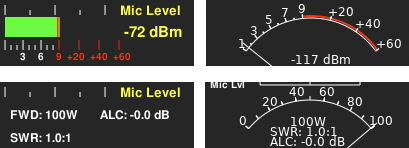
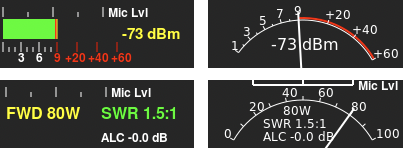
MacOS: activated bold fonts in the VFO display, such that the        look-and-feel is the same as for the RaspPi

diff --git a/src/meter.c b/src/meter.c
@@ -451,9 +451,7 @@ void meter_update(RECEIVER *rx, int meter_type, double value, double alc, double
       cairo_set_source_rgba(cr, COLOUR_OK);
       cairo_rectangle(cr, offset, 0.0, peak, 5.0);
       cairo_fill(cr);
-      cairo_select_font_face(cr, DISPLAY_FONT,
-                             CAIRO_FONT_SLANT_NORMAL,
-                             CAIRO_FONT_WEIGHT_BOLD);
+      cairo_select_font_face(cr, DISPLAY_FONT_BOLD, CAIRO_FONT_SLANT_NORMAL, CAIRO_FONT_WEIGHT_BOLD);
       cairo_set_font_size(cr, DISPLAY_FONT_SIZE2);
       cairo_set_source_rgba(cr, COLOUR_METER);
       cairo_move_to(cr, offset+105.0, 10.0);
@@ -490,9 +488,7 @@ void meter_update(RECEIVER *rx, int meter_type, double value, double alc, double
     // Digital meter, both RX and TX:
     // Mic level display
     //
-    cairo_select_font_face(cr, DISPLAY_FONT,
-                           CAIRO_FONT_SLANT_NORMAL,
-                           CAIRO_FONT_WEIGHT_BOLD);
+    cairo_select_font_face(cr, DISPLAY_FONT_BOLD, CAIRO_FONT_SLANT_NORMAL, CAIRO_FONT_WEIGHT_BOLD);
     cairo_set_line_width(cr, PAN_LINE_THICK);
 
     if (can_transmit) {
@@ -597,7 +593,7 @@ void meter_update(RECEIVER *rx, int meter_type, double value, double alc, double
         if (l > 114.0) { l = 114.0; }
 
         // use colours from the "gradient" panadapter display,
-        // but use no gradient: S0-S9 first colour, <S9 last colour
+        // but use no gradient: S0-S9 first colour, beyond S9 last colour
         cairo_pattern_t *pat = cairo_pattern_create_linear(0.0, 0.0, 114.0, 0.0);
         cairo_pattern_add_color_stop_rgba(pat, 0.00, COLOUR_GRAD1);
         cairo_pattern_add_color_stop_rgba(pat, 0.50, COLOUR_GRAD1);
@@ -617,24 +613,25 @@ void meter_update(RECEIVER *rx, int meter_type, double value, double alc, double
         text_location = 124;
       }
 
+      //
+      // Compute largest size for the digital S-meter reading such that
+      // it fits, both horizontally and vertically
+      //
+
       size = (METER_WIDTH - text_location) / 5;
 
       if (size > METER_HEIGHT / 3) { size = METER_HEIGHT / 3; }
 
-      if (size >= 12) {
-        cairo_set_source_rgba(cr, COLOUR_ATTN);
-        cairo_set_font_size(cr, size);
-        snprintf(sf, 32, "%d dBm", (int)(max_rxlvl - 0.5));  // assume max_rxlvl < 0 in rounding
-        cairo_move_to(cr, text_location, Y2);
-        cairo_show_text(cr, sf);
-      }
+      cairo_set_source_rgba(cr, COLOUR_ATTN);
+      cairo_set_font_size(cr, size);
+      snprintf(sf, 32, "%d dBm", (int)(max_rxlvl - 0.5));  // assume max_rxlvl < 0 in rounding
+      cairo_move_to(cr, text_location, Y2);
+      cairo_show_text(cr, sf);
 
       break;
 
     case POWER:
-      cairo_select_font_face(cr, DISPLAY_FONT,
-                             CAIRO_FONT_SLANT_NORMAL,
-                             CAIRO_FONT_WEIGHT_BOLD);
+      cairo_select_font_face(cr, DISPLAY_FONT_BOLD, CAIRO_FONT_SLANT_NORMAL, CAIRO_FONT_WEIGHT_BOLD);
       cairo_set_font_size(cr, DISPLAY_FONT_SIZE3);
 
       if (protocol == ORIGINAL_PROTOCOL || protocol == NEW_PROTOCOL) {
@@ -671,9 +668,7 @@ void meter_update(RECEIVER *rx, int meter_type, double value, double alc, double
         cairo_move_to(cr, METER_WIDTH/2, Y2);
         cairo_show_text(cr, sf);
 
-        cairo_select_font_face(cr, DISPLAY_FONT,
-                               CAIRO_FONT_SLANT_NORMAL,
-                               CAIRO_FONT_WEIGHT_BOLD);
+        cairo_select_font_face(cr, DISPLAY_FONT_BOLD, CAIRO_FONT_SLANT_NORMAL, CAIRO_FONT_WEIGHT_BOLD);
         cairo_set_font_size(cr, DISPLAY_FONT_SIZE2);
         cairo_set_source_rgba(cr, COLOUR_METER);  // revert to white color
         snprintf(sf, 32, "ALC %2.1f dB", max_alc);

diff --git a/src/appearance.h b/src/appearance.h
@@ -35,12 +35,29 @@
 
 //
 // Fonts and sizes for VFO, meter, panadapter etc.
+// NOTE MacOS versus RaspPi:
+// - on RaspPi, there is the font "FreeSans" which can be requested with a normal
+//   and a bold font weight.
+// - on MacOS, there is "FreeSans" but here *only* a normal weight is available,
+//   and there is "FreeSansBold" which *only* has a bold weight.
+// - therefore we define DISPLAY_FONT_NORMAL and DISPLAY_FONT_BOLD, which shall then
+//   exclusively be combined with a normal and bold font weight, and which can be
+//   be the same if both weights are available.
 //
-#define DISPLAY_FONT "FreeSans"                     // Default: FreeSans
-#define DISPLAY_FONT_SIZE1 10                       // Default: 10, used for small ticks in meter
-#define DISPLAY_FONT_SIZE2 12                       // Default: 12, used for SWR, FWD in Tx meter, and panadapter labels
-#define DISPLAY_FONT_SIZE3 16                       // Default: 16, used for warning/info in panadapters
-#define DISPLAY_FONT_SIZE4 20                       // Default: 22, only used for server IP addr in client mode
+// Note both the digital and analog RX meter "dBm" reading is printed in a font size
+// that is calculated based on available space.
+// 
+//
+#define DISPLAY_FONT_NORMAL     "FreeSans"
+#ifdef __APPLE__
+#define DISPLAY_FONT_BOLD       "FreeSansBold"
+#else
+#define DISPLAY_FONT_BOLD       "FreeSans"
+#endif
+#define DISPLAY_FONT_SIZE1 10                       // this is too small for elder hams
+#define DISPLAY_FONT_SIZE2 12                       // used for SWR, FWD in Tx meter, S-meter ticks, and panadapter labels
+#define DISPLAY_FONT_SIZE3 16                       // used for warning/info in panadapters
+#define DISPLAY_FONT_SIZE4 20                       // only used for server IP addr in client mode
 
 //
 // Colours. They are given as a 4-tuple (RGB and opacity).

diff --git a/src/rx_panadapter.c b/src/rx_panadapter.c
@@ -200,7 +200,7 @@ void rx_panadapter_update(RECEIVER *rx) {
 
   double dbm_per_line = (double)myheight / ((double)rx->panadapter_high - (double)rx->panadapter_low);
   cairo_set_line_width(cr, PAN_LINE_THIN);
-  cairo_select_font_face(cr, DISPLAY_FONT, CAIRO_FONT_SLANT_NORMAL, CAIRO_FONT_WEIGHT_BOLD);
+  cairo_select_font_face(cr, DISPLAY_FONT_BOLD, CAIRO_FONT_SLANT_NORMAL, CAIRO_FONT_WEIGHT_BOLD);
   cairo_set_font_size(cr, DISPLAY_FONT_SIZE2);
   char v[32];
 
@@ -244,9 +244,7 @@ void rx_panadapter_update(RECEIVER *rx) {
   //
   int marker_distance = (rx->pixels * divisor) / rx->sample_rate;
   f = ((min_display / divisor) * divisor) + divisor;
-  cairo_select_font_face(cr, DISPLAY_FONT,
-                         CAIRO_FONT_SLANT_NORMAL,
-                         CAIRO_FONT_WEIGHT_BOLD);
+  cairo_select_font_face(cr, DISPLAY_FONT_BOLD, CAIRO_FONT_SLANT_NORMAL, CAIRO_FONT_WEIGHT_BOLD);
   //
   // If space is available, increase font size of freq. labels a bit
   //
@@ -315,9 +313,7 @@ void rx_panadapter_update(RECEIVER *rx) {
 
   if (clients != NULL) {
     char text[64];
-    cairo_select_font_face(cr, DISPLAY_FONT,
-                           CAIRO_FONT_SLANT_NORMAL,
-                           CAIRO_FONT_WEIGHT_NORMAL);
+    cairo_select_font_face(cr, DISPLAY_FONT_NORMAL, CAIRO_FONT_SLANT_NORMAL, CAIRO_FONT_WEIGHT_NORMAL);
     cairo_set_source_rgba(cr, COLOUR_SHADE);
     cairo_set_font_size(cr, DISPLAY_FONT_SIZE4);
     inet_ntop(AF_INET, &(((struct sockaddr_in *)&clients->address)->sin_addr), text, 64);

diff --git a/src/tx_panadapter.c b/src/tx_panadapter.c
@@ -131,7 +131,7 @@ void tx_panadapter_update(TRANSMITTER *tx) {
     double dbm_per_line = (double)myheight / ((double)tx->panadapter_high - (double)tx->panadapter_low);
     cairo_set_source_rgba(cr, COLOUR_PAN_LINE);
     cairo_set_line_width(cr, PAN_LINE_THICK);
-    cairo_select_font_face(cr, DISPLAY_FONT, CAIRO_FONT_SLANT_NORMAL, CAIRO_FONT_WEIGHT_BOLD);
+    cairo_select_font_face(cr, DISPLAY_FONT_BOLD, CAIRO_FONT_SLANT_NORMAL, CAIRO_FONT_WEIGHT_BOLD);
     cairo_set_font_size(cr, DISPLAY_FONT_SIZE2);
 
     for (int i = tx->panadapter_high; i >= tx->panadapter_low; i--) {
@@ -178,9 +178,7 @@ void tx_panadapter_update(TRANSMITTER *tx) {
       // that we cannot print the frequencies
       //
       cairo_set_source_rgba(cr, COLOUR_PAN_LINE);
-      cairo_select_font_face(cr, DISPLAY_FONT,
-                             CAIRO_FONT_SLANT_NORMAL,
-                             CAIRO_FONT_WEIGHT_BOLD);
+      cairo_select_font_face(cr, DISPLAY_FONT_BOLD, CAIRO_FONT_SLANT_NORMAL, CAIRO_FONT_WEIGHT_BOLD);
       cairo_set_font_size(cr, DISPLAY_FONT_SIZE2);
       cairo_set_line_width(cr, PAN_LINE_THIN);
       cairo_text_extents_t extents;

diff --git a/release/LatexManual/piHPSDR-Manual.tex b/release/LatexManual/piHPSDR-Manual.tex
@@ -795,6 +795,13 @@ during TX.
 \label{fig:MeterDesigns}
 \end{figure}
 
+By default, the width of the meter section is 200 pixels, but if the current
+choice of the VFO bar and the window width leaves enough space, the width
+of the meter is increased to 250 pixels which allows for displaying some information
+at a larger font size. For example, if the standard VFO bar for a piHPSDR
+window 800 pixels wide is chosen, and the width of the window exceeds 850
+pixels, the meter automatically widens.
+
 The design can be switched between digital and analog in the \bltt{Meter}
 menu, which can be accessed quickly just by clicking into the meter area.
 During RX, an S-meter is shown together with the signal level in dBm. Note

diff --git a/src/vfo.c b/src/vfo.c
@@ -1169,7 +1169,7 @@ void vfo_update() {
   cr = cairo_create (vfo_surface);
   cairo_set_source_rgba(cr, COLOUR_VFO_BACKGND);
   cairo_paint (cr);
-  cairo_select_font_face(cr, DISPLAY_FONT, CAIRO_FONT_SLANT_NORMAL, CAIRO_FONT_WEIGHT_BOLD);
+  cairo_select_font_face(cr, DISPLAY_FONT_BOLD, CAIRO_FONT_SLANT_NORMAL, CAIRO_FONT_WEIGHT_BOLD);
 
   // -----------------------------------------------------------
   //
